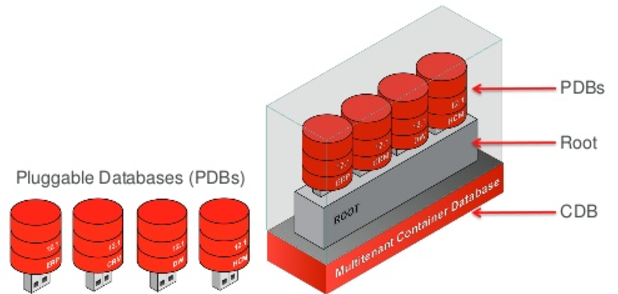
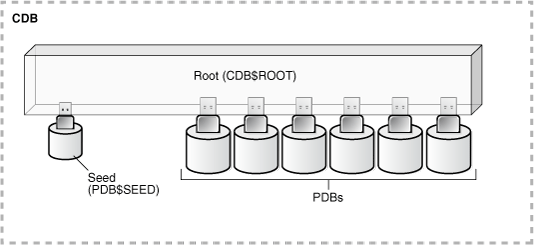
update 12c

diff --git a/OracleDatabase/12c_multitenant.md b/OracleDatabase/12c_multitenant.md
@@ -13,7 +13,7 @@
 
 #### 2-1. Multitenant architecture
 
-In Oracle 11g R2,
+In Oracle 11g R2, <br/>
 Multiple databases share nothing within the single consolidation server.
  * Too many background processes
  * High shared/process memory (SGA/PGA)
@@ -21,20 +21,125 @@ Multiple databases share nothing within the single consolidation server.
  
 ![archtecture of pre 12c](images/12c_multitenant_img1.PNG)
 
-In Oracle 12c
+In Oracle 12c,<br/>
+A multitenant environment enables the central management of multiple PDBs in a single installation and enables you to accomplish several goals.
+ * Less then Instance resources(BG processes and memory usage)
+ * provides isolation between PDBs
+ * Share Oracle-supplied dictionary objects(metadata)
 
 ![archtecture of 12c](images/12c_multitenant_img2.PNG)
 
-#### 2-1. component of multitent
+#### 2-2. The purpose of multitenant environment
+
+ * Cost reduction <br/> 
+ By consolidating hardware and database infrastructure to a single set of background processes, and efficiently sharing computational and memory resources, you reduce costs for hardware and maintenance.
+
+ * Easier and more rapid movement of data and code <br/>
+ By design, you can plug a PDB into a CDB, unplug the PDB from the CDB, and then plug this PDB into a different CDB. Therefore, you can easily move an application's database back end from one server to another.
+
+ * Easier management and monitoring of the physical database <br/>
+ The CDB administrator can manage the environment as an aggregate by executing a single operation, such as patching or performing an RMAN backup, for all hosted tenants and the CDB root.
+
+ * Separation of data and code <br/>
+ Although consolidated into a single physical CDB, PDBs mimic the behavior of traditional non-CDBs. For example, a PDB administrator can flush the shared pool or buffer cache in the context of a PDB without affecting other PDBs in the CDB.
+
+ * Fewer patches and upgrades : It is easier to apply a patch to one CDB than to multiple non-CDBs and to upgrade one CDB than to upgrade several non-CDBs.
+
+ * To change the DB configuration easier <br/>
+ It can be changed easire between RAC, single , ADG and etc.
+
+#### 2-3. Components of a CDB
+CDB is the Parent Container Database in a multitenant environment. It is physical instance by itself. Its container ID is 0 
+
+A CDB includes the following components(containers):
+
+ - Root
+ 
+ The root, named CDB$ROOT, stores Oracle-supplied metadata and common users. An example of metadata is the source code for Oracle-supplied PL/SQL packages. A common user is a database user known in every container. A CDB has exactly one root. Its container ID is 1
+
+ - Seed
+ 
+ The seed, named PDB$SEED, is a template that you can use to create new PDBs. You cannot add objects to or modify objects in the seed. A CDB has exactly one seed. Its container ID is 2
+
+- PDBs
+
+A PDB appears to users and applications as if it were a non-CDB. For example, a PDB can contain the data and code required to support a specific application. A PDB is fully backward compatible with Oracle Database releases before Oracle Database 12c.
 
 
-#### 2-1. creating cdb
+#### 2-4. Configurations of multitenant container database.
+There are 3 possible configurations in oracle database 12c.
+ * multitenant environment : 1 CDB and more then 1 PDBs
+ * singletenant environment : 1 CDB and 1 PDB (no extra cost)
+ * non-CDB : like the classical 11g DB
+
+ Multitenent container database consists of
+![archtecture of 12c](images/12c_multitenant_img3.PNG)
+
+ Seperating SYSTEM and USER DATA
+
+ Shared Resources
+ - Instance(SGA and Background processes)
+ - Control files and Redo log files(online/archived)
+ - ADR(Automatic Diagnostic Repository : alert log file etc)
+ - Parameter file(SPfile/Pfile) and Password file
+ - Oracle Net configuration files(listener.ora, sqlnet.ora, tnsnames.ora)
+ - UNDO tablespace per CDB instance
+ - Default temporary tablespace
+ - Chacracterset per CDB instance(Unicode recommended)
+ - AWR(Automatic Workload Repository)
+ - Common Objects(including PL/SQL) : Oracle-supplied object like OBJ$,TAB$ etc
+
+ Non-shared Resources
+ - SYSTEM, SYSAUX tablespace : oracle supplied objects pointing to Root containers's Dictionary
+ - Local temporary tablespace (optional)
+ - User tablespace
+ - Local users and roles
+
+ 
+
+    * Metadata-linked object
+   * Object-linked object
 
 
-#### 2-1. creating pdb (5 ways)
+
+#### 2-1. Creating a CDB
+
+You can create a CDB using,
+ - DBCA is a utility with a graphical user interface that enables you to configure a CDB, create PDBs, plug in PDBs, and unplug PDBs.
+
+ - Oracle Enterprise Manager Cloud Control is a system management tool with a graphical user interface that enables you to manage and monitor a CDB and its PDBs.
+
+ - Oracle SQL Developer is a graphical version of SQL*Plus that gives database developers a convenient way to perform basic tasks.
+
+ - The Server Control (SRVCTL) utility can create and manage services for PDBs.
+
+ - EM Express
 
 
-#### 2-1. managing cdb,pdb (tbs)
+Creating a CDB using DBCA
+
+
+#### 2-1. Creating a PDB
+There are 5 ways to create a PDB in Oracle 12c.
+ * aaa
+ * bbb
+ * ccc
+ * ddd
+ * eee
+
+1. aaa
+
+2. bbb
+
+3. ccc
+
+4. ddd
+
+5. eee
+
+
+
+#### 2-1. Managing a CDB and PDBs
 
 
 
@@ -47,5 +152,7 @@ In Oracle 12c
 ### 3. 12c Release 2 New features
 
 
+### References
+[Oracle Help center : https://docs.oracle.com](https://docs.oracle.com)
 
 
